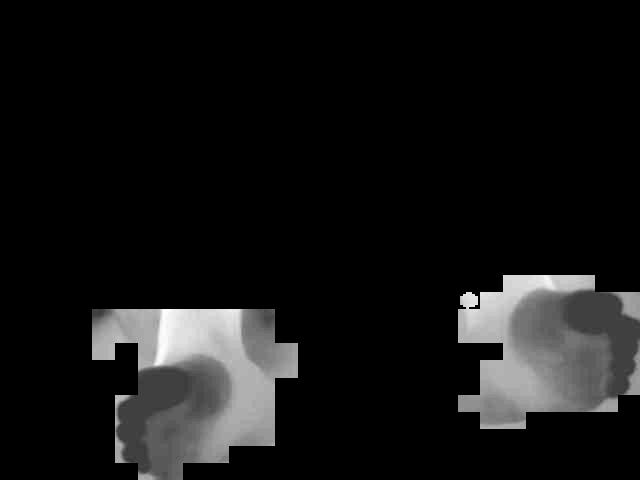
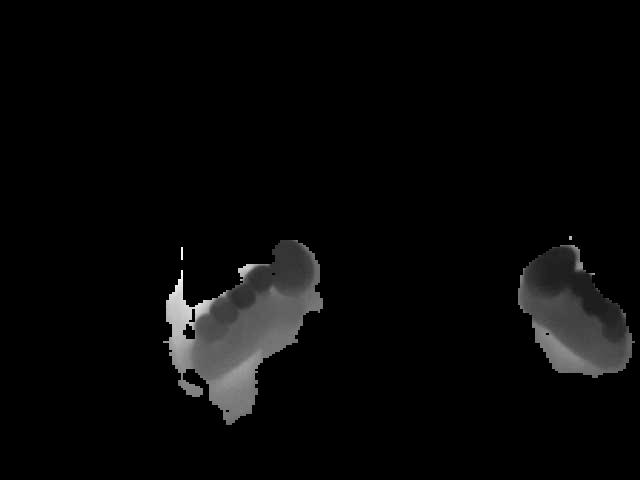
Prediction now works for a whole session

Changed region(s): [[0.125, 0.5, 0.5, 1.0], [0.7188, 0.5, 1.0, 0.9062]]

diff --git a/outputs/logs.html b/outputs/logs.html
@@ -1,1 +1,1 @@
-Se ha segmentado exitosamente la sesion con API_Segnet_best.h5
+La temperatura media es: 28.033952295132018

diff --git a/segment.py b/segment.py
@@ -71,17 +71,47 @@ class SessionToSegment():
         self.X = None
         self.Xarray = None
         
+    def predict(self, X):
+        
+        interpreter = tflite.Interpreter(model_path = self.model)
+        interpreter.allocate_tensors()
+
+        input_details = interpreter.get_input_details()
+        output_details = interpreter.get_output_details()
+        predictions = []
+
+        for i in range(X.shape[0]):
+            input_shape = input_details[0]['shape']
+            input_data = np.float32(X[i])
+            input_data = np.expand_dims(input_data, axis=0)
+            
+            interpreter.set_tensor(input_details[0]['index'], input_data)
+
+            interpreter.invoke()  # predict
+
+            output_data = interpreter.get_tensor(output_details[0]['index'])
+            predictions.append(output_data)
+
+        return predictions
+    
+    def input_shape(self):
+        interpreter = tflite.Interpreter(model_path = self.model)
+        interpreter.allocate_tensors()
+
+        input_details = interpreter.get_input_details()[0]['shape'][1]
+        print(input_details)
+        return input_details
+
     def whole_extract(self, dirs):
-        img_size = self.model.input_shape[1]
+        img_size = self.input_shape()
         self.img_array=[]
         for i in range(len(dirs)):
             self.img_array.append(plt.imread(dirs[i])/255)
         self.img_array=np.array(self.img_array)
-        self.X = tf.convert_to_tensor(self.img_array)
-        self.X = tf.image.resize(self.X , (img_size , img_size))
+        self.X = np.array([cv2.resize(self.img_array[i] , (img_size , img_size), interpolation = cv2.INTER_NEAREST) for i in range(self.img_array.shape[0])])
         self.Xarray  = np.array(self.X)
         self.Xarray = (self.Xarray/self.Xarray.max()).reshape(len(dirs) ,img_size , img_size , 3)
-        self.Y_pred = self.model.predict(self.X)
+        self.Y_pred = self.predict(self.X)
 
     def setPath(self,im):
         self.sessionPath = im

diff --git a/main.py b/main.py
@@ -214,8 +214,10 @@ class Window(QMainWindow):
             Y = self.s2s.Y_pred[i]
             Y = Y / Y.max()
             Y = np.where( Y >= threshold  , 1 , 0)
-            self.Y.append( remove_small_objects(Y))     #Eventually required by temp_extract
-            Y = cv2.resize(Y, (img.shape[1],img.shape[0]), interpolation = cv2.INTER_NEAREST) # Resize the prediction to have the same dimensions as the input 
+
+            self.Y.append(remove_small_objects(Y[0]))     #Eventually required by temp_extract
+            print(self.Y[0].shape)
+            Y = cv2.resize(Y[0], (img.shape[1],img.shape[0]), interpolation = cv2.INTER_NEAREST) # Resize the prediction to have the same dimensions as the input 
             plt.imsave(self.outfiles[i], Y*img[:,:,0] , cmap='gray')
 
 
